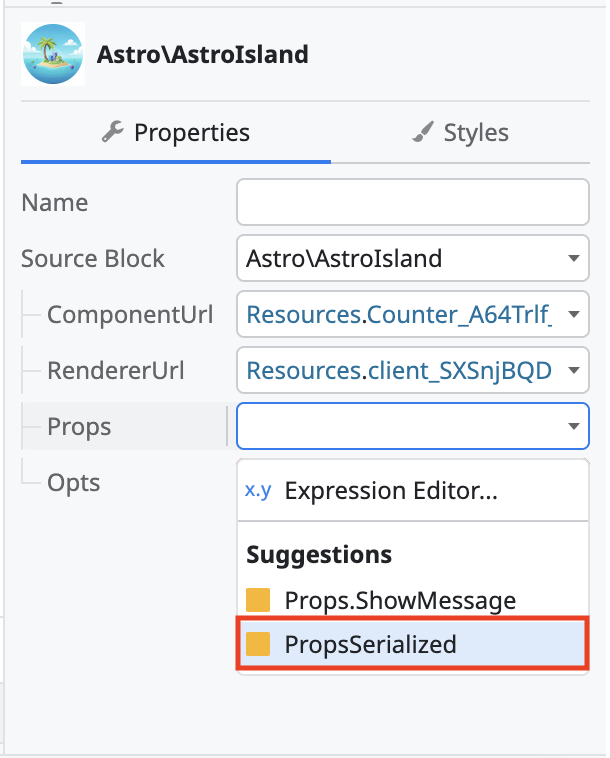
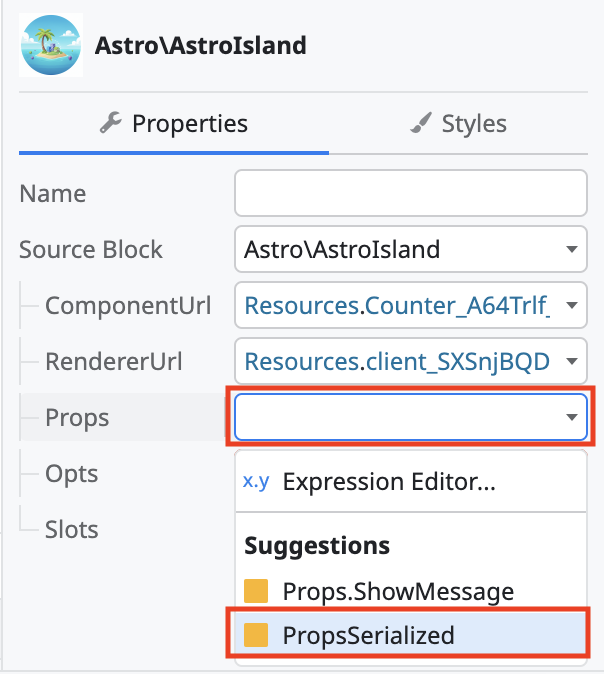
Adding ODC slots documentation

diff --git a/docs/src/content/docs/guides/outsystems/odc.md b/docs/src/content/docs/guides/outsystems/odc.md
@@ -192,6 +192,44 @@ Astro Islands can take input parameters and functions, but they must first seria
 - Enter the value from the ```astro-island``` ```opts``` parameter into the window and click the **Close** button.
 ![Select Island Opts value](../../../../assets/odc/islands-opts-value.png)
 
+### Slots
+[Slots](https://docs.astro.build/en/basics/astro-components/#slots) are an optional HTML that can be passed into a component.  They are then able to be picked up and used by the Astro Island component.
+
+When building the Astro Islands code, the [output script](../astro/index.md#converting-to-outsystems) will generate any slot content inside of the HTML output file and it will be ready to be copied into OutSystems. An exmaple output:
+
+```html
+<astro-island
+  uid="Z8N2Aa"
+  component-url="/Counter_A64T-rlf.js"
+  component-export="default"
+  renderer-url="/client_SXSnjBQD.js"
+  props="{""InitialCount"":[0,5],""ShowMessage"":[0,""showMessage""]}"
+  ssr
+  client="only"
+  opts="{""name"":""CounterComponent"",""value"":""react""}"
+  await-children>
+"<template" +
+"    data-astro-template>" +
+"    <div style=""text-align: center;"">" +
+"      <p>Slot content!</p>" +
+"    </div>" +
+"  </template><template data-astro-template=""header"">" +
+"    <div class=""counter-title"">" +
+"      Counter" +
+"    </div>" +
+"  </template>"
+</astro-island>
+```
+In this example, everything inside of the ```<astro-island></astro-island>``` starting from ```"<template" +``` to ```"  </template>"``` can be copied over to OutSystems.
+
+On the block parameters, click on the **Slots** dropdown and select expression editor.
+![Select Island Slots parameter](../../../../assets/odc/island-slots.png)
+
+- Enter the value inside the ```astro-island``` tag into the window and click the **Close** button.
+![Select Island Slots value](../../../../assets/odc/island-slots-value.png)
+
+***Note***: Be careful that the slot does not turn into a security issue. Make sure to properly [sanitize any user input](https://success.outsystems.com/documentation/11/reference/outsystems_apis/sanitization_api/#SanitizeHtml) that may go into a slot to ensure you are protecting against [Injection and Cross-Site Scripting attacks](https://success.outsystems.com/documentation/11/security/injection_and_cross_site_script_xss/).
+
 ### Add styles
 If there are any output CSS styles, they must be added to the block CSS.
 

diff --git a/docs/src/content/docs/guides/outsystems/o11.md b/docs/src/content/docs/guides/outsystems/o11.md
@@ -252,7 +252,6 @@ On the block parameters, click on the **Slots** dropdown and select expression e
 
 ***Note***: Be careful that the slot does not turn into a security issue. Make sure to properly [sanitize any user input](https://success.outsystems.com/documentation/11/reference/outsystems_apis/sanitization_api/#SanitizeHtml) that may go into a slot to ensure you are protecting against [Injection and Cross-Site Scripting attacks](https://success.outsystems.com/documentation/11/security/injection_and_cross_site_script_xss/).
 
-
 ### Add styles
 If there are any output CSS styles, they must be added to the block CSS.
 

diff --git a/docs/src/content/docs/guides/getting-started.md b/docs/src/content/docs/guides/getting-started.md
@@ -38,4 +38,4 @@ The following frameworks are currently compatible with the OutSystems Astro Isla
 Once your output for Astro is generated, you can begin the creation and migration of the component to OutSystems. Currently supported platform versions
 
 - [011](../outsystems/o11)
-- [ODC](../outsystems/odc) - Coming Soon!
+- [ODC](../outsystems/odc)
